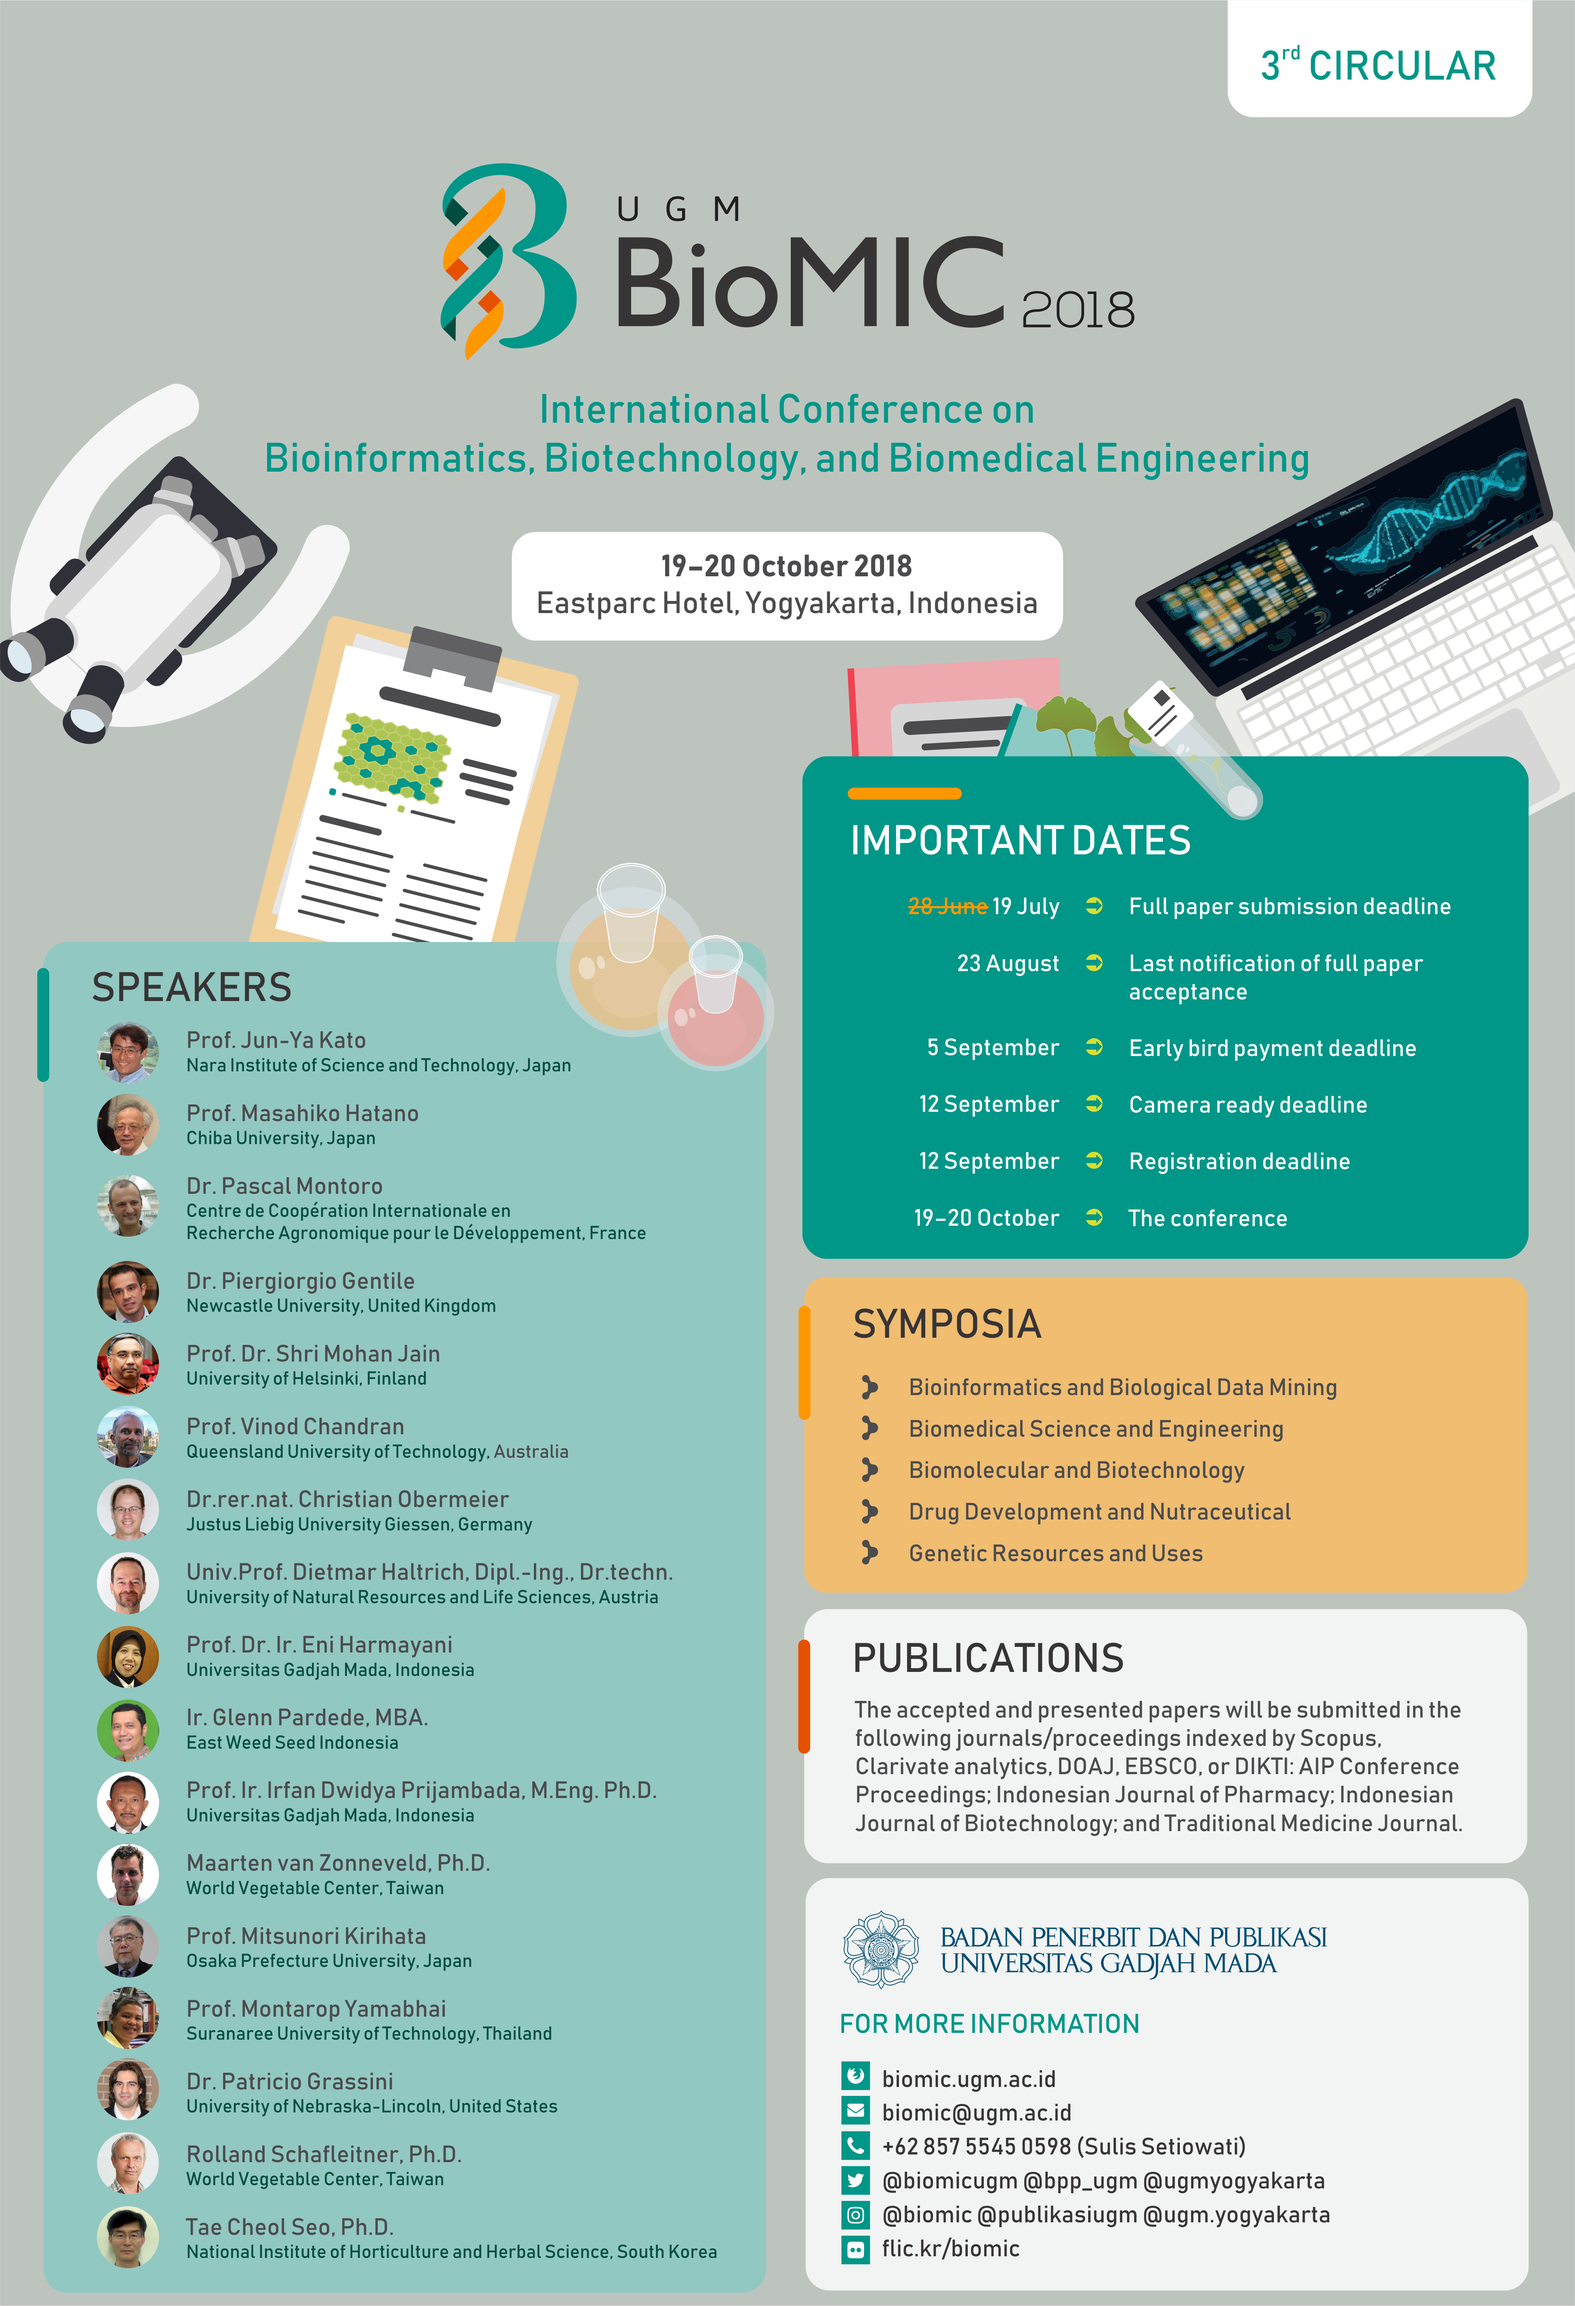
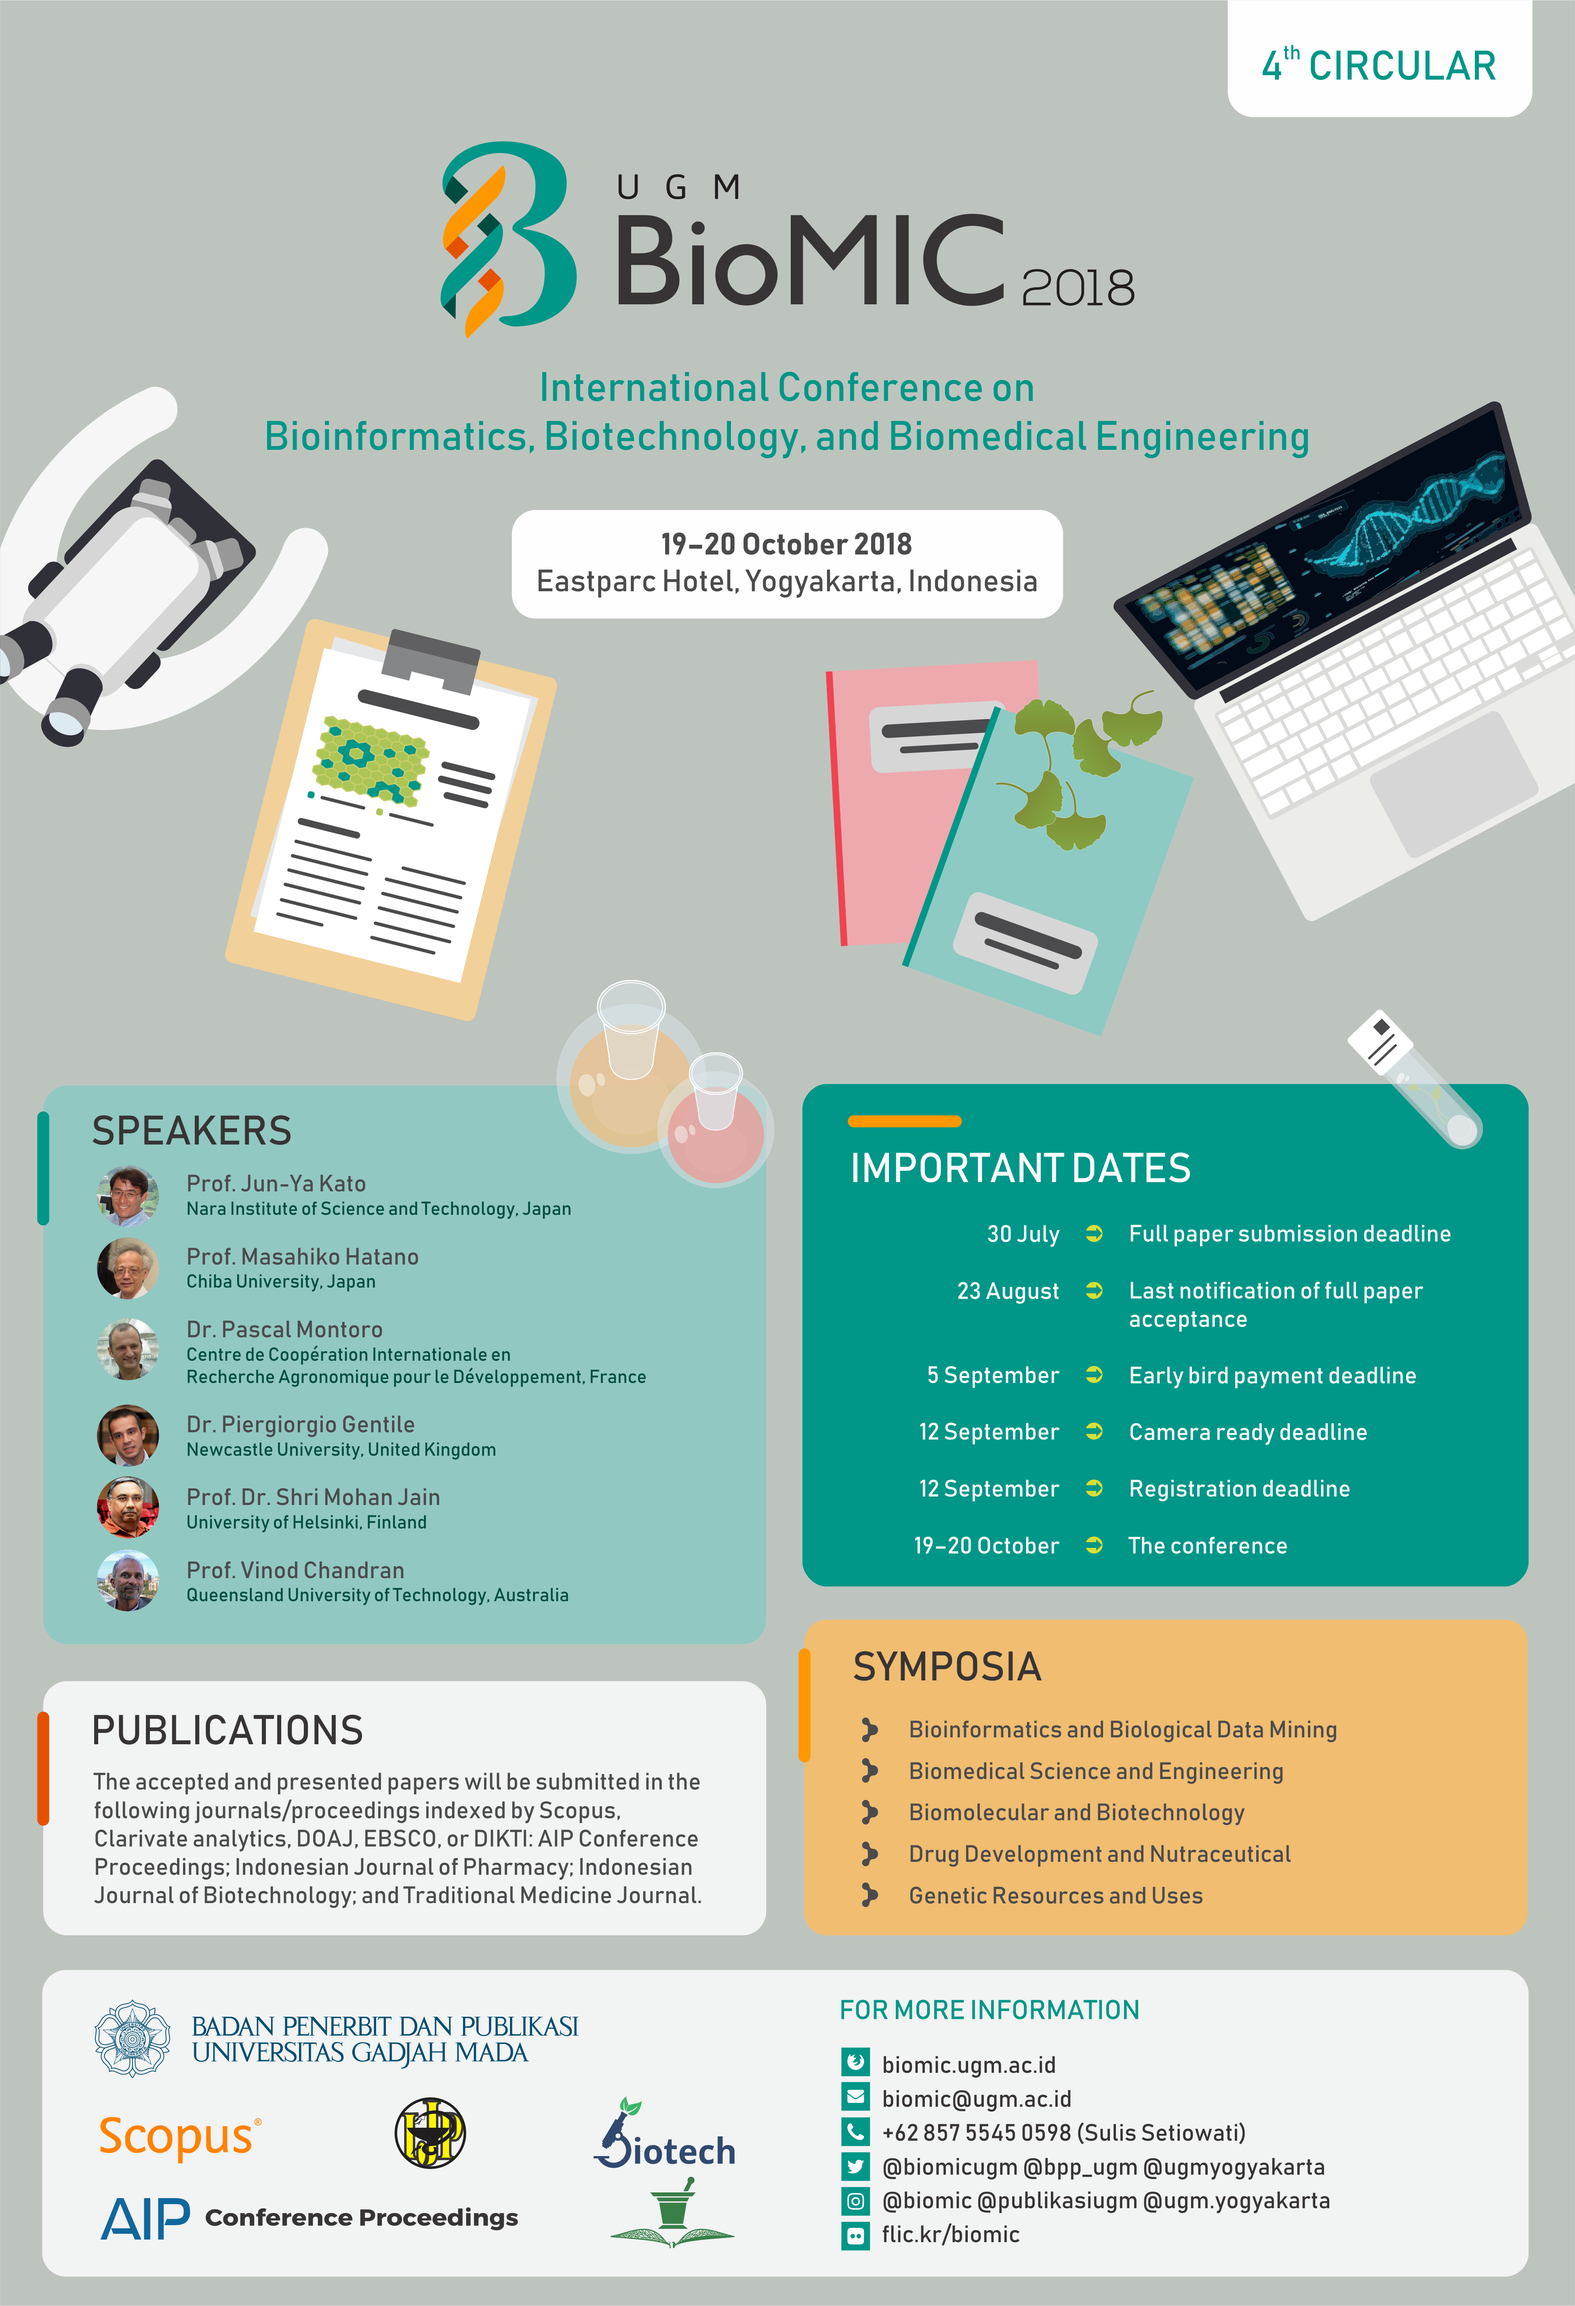
extend

diff --git a/index.html b/index.html
@@ -165,7 +165,7 @@
       <div class="row">
         <div class="col-12">
           <h5 style="margin-bottom: 0; line-height: 1;">
-            <b>The full paper submission deadline has been extended to <strong>19 July 2018</strong>.</b>
+            <b>The full paper submission deadline has been extended to <strong>30 July 2018</strong>. Please read <strong><a href="http://biomic.ugm.ac.id/article/presenter-submission-tutorial.html">Paper Submission Tutorial</a></strong> carefully.</b>
           </h5>
         </div>
       </div>
@@ -231,7 +231,7 @@
                   <div class="container-fluid" style="padding: 0;">
                     <div class="row" style="font-weight: 300">
                       <div class="col-3 text-right" style="padding-right: 0;">
-                        19 July <strike>28 June</strike>
+                        30 July <strike>19 June</strike>
                       </div>
                       <div class="col-1 text-center" style="padding-left: 0; padding-right: 0">
                         <i class="fa fa-arrow-circle-right fa-fw" aria-hidden="true"></i>

diff --git a/article/genetic-resources-and-uses.html b/article/genetic-resources-and-uses.html
@@ -177,7 +177,7 @@
           <code>
             <a href="submissions.html">register</a>
           </code> button.</p>
-
+<!-- 
         <h2>Invited speakers</h2>
         <div class="container">
           <div class="row">
@@ -238,7 +238,7 @@
               </div>
             </div>
           </div>
-        </div>
+        </div> -->
 
 
         <!--COMMITTEE-->
@@ -261,8 +261,8 @@
           <br>Dr. Ir. Panjisakti Basunanda, SP., MP.
           <br>Prof. Dr. Ir. Budi Leksono, MP.
           <br>Ir. Ign. Hardaningsih, M.Si.
-          <br>Maarten van Zonneveld
-          <br>Ir. Glenn Pardede, MBA
+        <!--   <br>Maarten van Zonneveld
+          <br>Ir. Glenn Pardede, MBA -->
           <br>Nafiatul Umami, S.Pt., M.P., Ph.D.
           <br>Panjono, S.Pt., M.P., Ph.D.
           <br>Dr. Tri Rini Nuringtyas, M.Sc.

diff --git a/article/about.html b/article/about.html
@@ -216,7 +216,7 @@
                 </div>
               </div>
 
-              <div class="col-md-3 mb-4">
+              <!-- <div class="col-md-3 mb-4">
                 <div class="card" style="max-width: 240px; margin: auto;">
                   <img class="card-img-top" src="../images/speakers/shri-mohan-jain.jpg" alt="Prof. Dr. Shri Mohan Jain" style="max-width: 100%">
                   <div class="card-footer bg-primary text-white">
@@ -227,7 +227,7 @@
                       <br class="hidden-md-down">
                     </div>
                   </div>
-                </div>
+                </div> -->
 
                 <div class="col-md-3 mb-4">
                   <div class="card" style="max-width: 240px; margin: auto">
